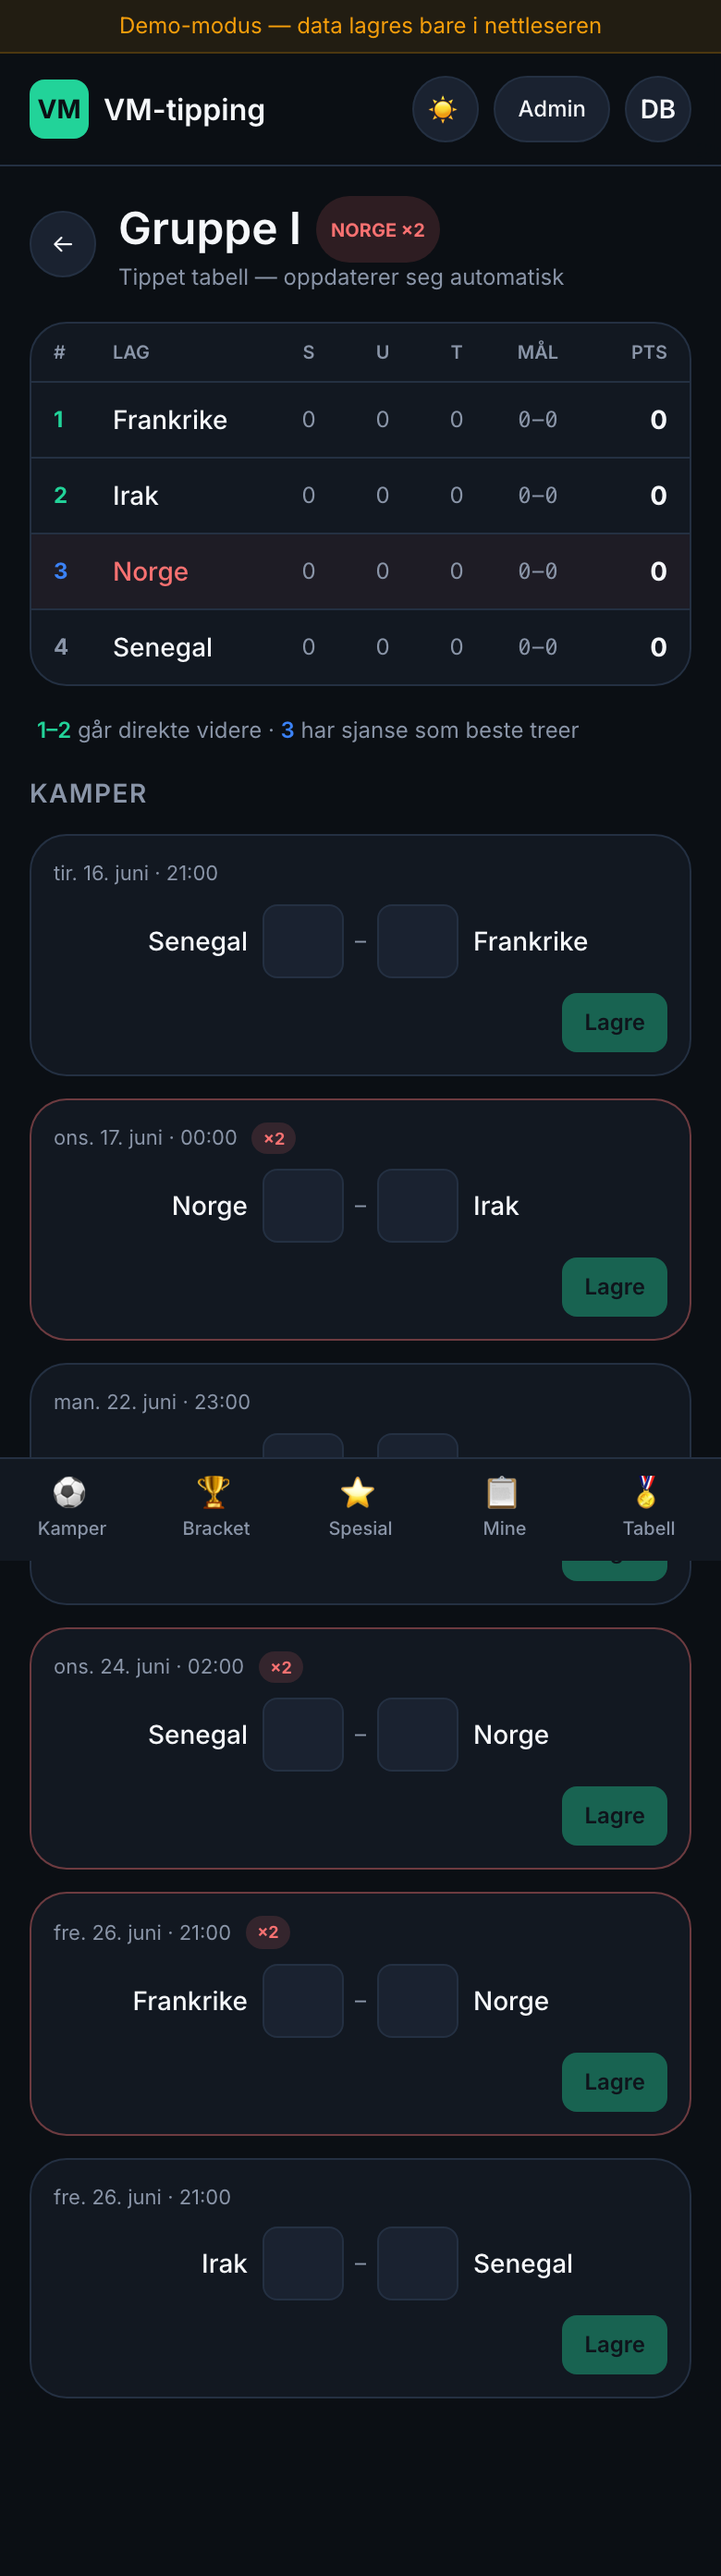
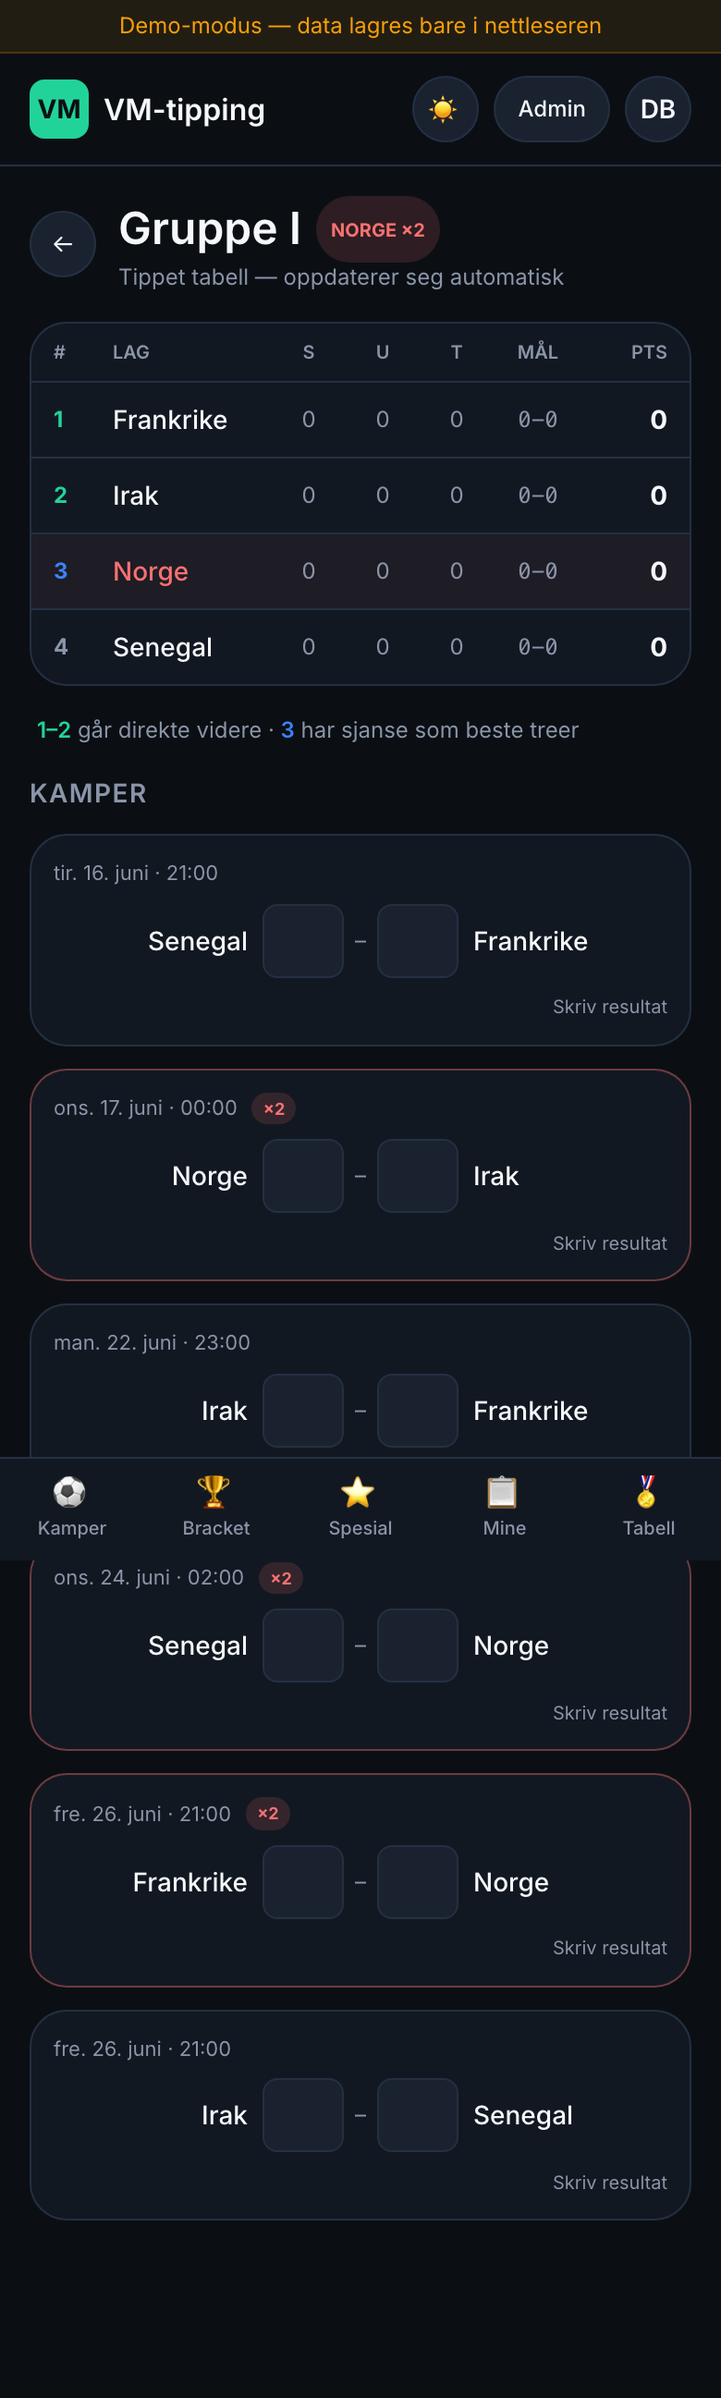
Auto-lagring overalt — fjern Lagre-knapper
Tidligere måtte man trykke Lagre på hvert kamp-kort og en stor knapp
nederst på Spesialtips. Nå:

- Kamp-kort (på /kamper og /sluttspill/[gruppe]) auto-lagrer 500ms
  etter du har skrevet inn både hjem- og bortemål
- Spesialtips auto-lagrer 600ms etter siste endring i hvilken som helst
  av de fem feltene
- Hopper over å skrive hvis ingenting er endret, slik at vi ikke
  spammer lagringer ved sidemount
- Liten 'Lagret ✓' / 'Lagrer…' / 'Tippet' / 'Skriv resultat' status
  vises i steden for knapp

Verifisert via Playwright: skriv 2-1 i Senegal–Frankrike → I1 dukker
opp i localStorage etter 1 sek og 'Lagret'-statusen vises.

diff --git a/app/spesial/page.tsx b/app/spesial/page.tsx
@@ -1,6 +1,6 @@
 "use client";
 
-import { useEffect, useState } from "react";
+import { useEffect, useRef, useState } from "react";
 import { useAuth } from "@/lib/auth-context";
 import { lagreSpesialTip, useMittSpesialTip } from "@/lib/data";
 import { GRUPPER, POENG } from "@/lib/vm-data";
@@ -27,41 +27,85 @@ function Spesial() {
   const [toppscorer, setToppscorer] = useState("");
   const [toppassist, setToppassist] = useState("");
   const [mestRødeKort, setMestRødeKort] = useState("");
-  const [klart, setKlart] = useState(false);
+  const [status, setStatus] = useState<"idle" | "lagrer" | "lagret">("idle");
+  const klar = useRef(false);
 
   useEffect(() => {
-    if (lagret) {
-      setVmVinner(lagret.vmVinner);
-      setVmFinalist(lagret.vmFinalist);
-      setToppscorer(lagret.toppscorer);
-      setToppassist(lagret.toppassist);
-      setMestRødeKort(lagret.mestRødeKort);
+    if (!lagret) {
+      klar.current = true;
+      return;
     }
+    setVmVinner(lagret.vmVinner);
+    setVmFinalist(lagret.vmFinalist);
+    setToppscorer(lagret.toppscorer);
+    setToppassist(lagret.toppassist);
+    setMestRødeKort(lagret.mestRødeKort);
+    klar.current = true;
   }, [lagret]);
 
-  async function lagre() {
-    if (!user) return;
-    await lagreSpesialTip({
-      uid: user.uid,
-      vmVinner,
-      vmFinalist,
-      toppscorer,
-      toppassist,
-      mestRødeKort,
-      lagretTid: Date.now(),
-    });
-    setKlart(true);
-    setTimeout(() => setKlart(false), 1500);
-  }
+  useEffect(() => {
+    if (!user || !klar.current) return;
+    // Hopp over hvis ingenting er endret
+    if (
+      lagret &&
+      lagret.vmVinner === vmVinner &&
+      lagret.vmFinalist === vmFinalist &&
+      lagret.toppscorer === toppscorer &&
+      lagret.toppassist === toppassist &&
+      lagret.mestRødeKort === mestRødeKort
+    )
+      return;
+    if (
+      !lagret &&
+      !vmVinner &&
+      !vmFinalist &&
+      !toppscorer &&
+      !toppassist &&
+      !mestRødeKort
+    )
+      return;
+    const t = setTimeout(async () => {
+      setStatus("lagrer");
+      await lagreSpesialTip({
+        uid: user.uid,
+        vmVinner,
+        vmFinalist,
+        toppscorer,
+        toppassist,
+        mestRødeKort,
+        lagretTid: Date.now(),
+      });
+      setStatus("lagret");
+      setTimeout(() => setStatus("idle"), 1500);
+    }, 600);
+    return () => clearTimeout(t);
+  }, [
+    vmVinner,
+    vmFinalist,
+    toppscorer,
+    toppassist,
+    mestRødeKort,
+    user,
+    lagret,
+  ]);
 
   return (
     <div className="space-y-4">
-      <div>
-        <h1 className="text-2xl font-semibold">Spesialtips</h1>
-        <p className="text-muted text-sm">
-          De store sjansene for ekstra poeng. Tippene kan endres frem til VM
-          starter.
-        </p>
+      <div className="flex items-end justify-between">
+        <div>
+          <h1 className="text-2xl font-semibold">Spesialtips</h1>
+          <p className="text-muted text-sm">
+            Lagres automatisk. Kan endres frem til VM starter.
+          </p>
+        </div>
+        <div className="h-5">
+          {status === "lagrer" && (
+            <span className="text-xs text-muted">Lagrer…</span>
+          )}
+          {status === "lagret" && (
+            <span className="text-xs text-success font-semibold">✓ Lagret</span>
+          )}
+        </div>
       </div>
 
       <Boks
@@ -124,17 +168,6 @@ function Spesial() {
           placeholder="Spillernavn"
         />
       </Boks>
-
-      <button
-        onClick={lagre}
-        className={`w-full h-12 rounded-2xl font-semibold transition active:scale-[0.99] ${
-          klart
-            ? "bg-success text-white"
-            : "bg-primary text-primaryFg hover:bg-primaryDark"
-        }`}
-      >
-        {klart ? "Lagret" : lagret ? "Oppdater spesialtips" : "Lagre spesialtips"}
-      </button>
     </div>
   );
 }

diff --git a/app/kamper/page.tsx b/app/kamper/page.tsx
@@ -105,18 +105,24 @@ function KampKort({
 
   const gyldig = hjem !== "" && bort !== "" && Number(hjem) >= 0 && Number(bort) >= 0;
   const erNorge = erNorgeKamp(kamp);
+  const uendret =
+    tip && Number(hjem) === tip.hjemme && Number(bort) === tip.borte;
 
-  async function lagre() {
-    if (!gyldig) return;
-    setLagrer(true);
-    try {
-      await onLagre(Number(hjem), Number(bort));
-      setLagret(true);
-      setTimeout(() => setLagret(false), 1500);
-    } finally {
-      setLagrer(false);
-    }
-  }
+  useEffect(() => {
+    if (!gyldig || uendret) return;
+    const t = setTimeout(async () => {
+      setLagrer(true);
+      try {
+        await onLagre(Number(hjem), Number(bort));
+        setLagret(true);
+        setTimeout(() => setLagret(false), 1500);
+      } finally {
+        setLagrer(false);
+      }
+    }, 500);
+    return () => clearTimeout(t);
+    // eslint-disable-next-line react-hooks/exhaustive-deps
+  }, [hjem, bort, gyldig, uendret]);
 
   const dato = new Date(kamp.starttid);
   const datoStr = dato.toLocaleDateString("nb-NO", {
@@ -163,24 +169,33 @@ function KampKort({
         </div>
       </div>
 
-      <div className="mt-3 flex items-center justify-between">
-        <div className="text-xs text-muted">
-          {tip ? "Tipset er lagret" : "Velg resultat og lagre"}
-        </div>
-        <button
-          onClick={lagre}
-          disabled={!gyldig || lagrer}
-          className={`h-9 px-4 rounded-xl text-sm font-medium transition active:scale-[0.98] ${
-            lagret
-              ? "bg-success text-white"
-              : "bg-primary text-primaryFg hover:bg-primaryDark disabled:opacity-40"
-          }`}
-        >
-          {lagret ? "Lagret" : lagrer ? "Lagrer…" : tip ? "Oppdater" : "Lagre"}
-        </button>
+      <div className="mt-3 flex items-center justify-end h-5">
+        <Status lagrer={lagrer} lagret={lagret} tippet={Boolean(tip)} />
       </div>
     </div>
   );
+}
+
+function Status({
+  lagrer,
+  lagret,
+  tippet,
+}: {
+  lagrer: boolean;
+  lagret: boolean;
+  tippet: boolean;
+}) {
+  if (lagrer)
+    return <span className="text-xs text-muted">Lagrer…</span>;
+  if (lagret)
+    return (
+      <span className="text-xs text-success font-semibold flex items-center gap-1">
+        ✓ Lagret
+      </span>
+    );
+  if (tippet)
+    return <span className="text-xs text-muted">Tippet</span>;
+  return <span className="text-xs text-muted">Skriv resultat</span>;
 }
 
 function Sc({

diff --git a/app/sluttspill/[gruppe]/page.tsx b/app/sluttspill/[gruppe]/page.tsx
@@ -181,18 +181,24 @@ function KampRad({
   const låst = kamp.starttid <= Date.now();
   const gyldig = hjem !== "" && bort !== "" && Number(hjem) >= 0 && Number(bort) >= 0;
   const erNorge = erNorgeKamp(kamp);
+  const uendret =
+    tip && Number(hjem) === tip.hjemme && Number(bort) === tip.borte;
 
-  async function lagre() {
-    if (!gyldig || låst) return;
-    setLagrer(true);
-    try {
-      await onLagre(Number(hjem), Number(bort));
-      setLagret(true);
-      setTimeout(() => setLagret(false), 1500);
-    } finally {
-      setLagrer(false);
-    }
-  }
+  useEffect(() => {
+    if (låst || !gyldig || uendret) return;
+    const t = setTimeout(async () => {
+      setLagrer(true);
+      try {
+        await onLagre(Number(hjem), Number(bort));
+        setLagret(true);
+        setTimeout(() => setLagret(false), 1500);
+      } finally {
+        setLagrer(false);
+      }
+    }, 500);
+    return () => clearTimeout(t);
+    // eslint-disable-next-line react-hooks/exhaustive-deps
+  }, [hjem, bort, gyldig, uendret, låst]);
 
   const dato = new Date(kamp.starttid);
   const datoStr = dato.toLocaleDateString("nb-NO", {
@@ -241,22 +247,19 @@ function KampRad({
           {kamp.bortelag}
         </div>
       </div>
-      <div className="mt-2 flex items-center justify-between">
-        <span className="text-[10px] text-muted">
-          {låst ? "Låst" : tip ? "Tippet" : ""}
-        </span>
-        {!låst && (
-          <button
-            onClick={lagre}
-            disabled={!gyldig || lagrer}
-            className={`h-8 px-3 rounded-lg text-xs font-semibold transition ${
-              lagret
-                ? "bg-success text-white"
-                : "bg-primary text-primaryFg hover:bg-primaryDark disabled:opacity-40"
-            }`}
-          >
-            {lagret ? "Lagret" : lagrer ? "Lagrer…" : tip ? "Oppdater" : "Lagre"}
-          </button>
+      <div className="mt-2 flex items-center justify-end h-4">
+        {låst ? (
+          <span className="text-[10px] text-muted">Låst</span>
+        ) : lagrer ? (
+          <span className="text-[10px] text-muted">Lagrer…</span>
+        ) : lagret ? (
+          <span className="text-[10px] text-success font-semibold">
+            ✓ Lagret
+          </span>
+        ) : tip ? (
+          <span className="text-[10px] text-muted">Tippet</span>
+        ) : (
+          <span className="text-[10px] text-muted">Skriv resultat</span>
         )}
       </div>
     </div>
